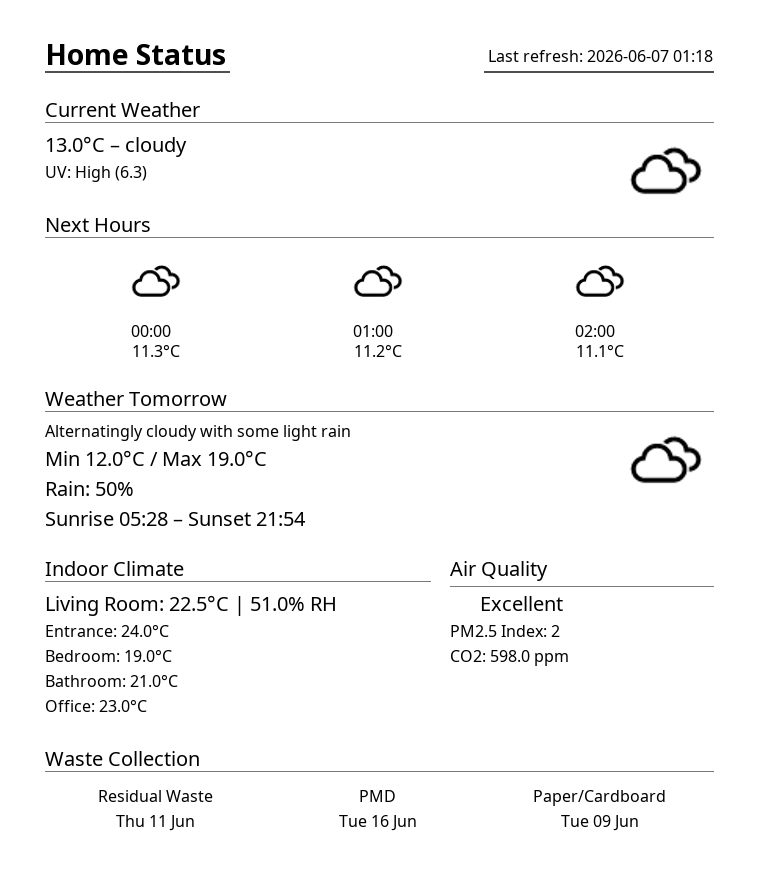
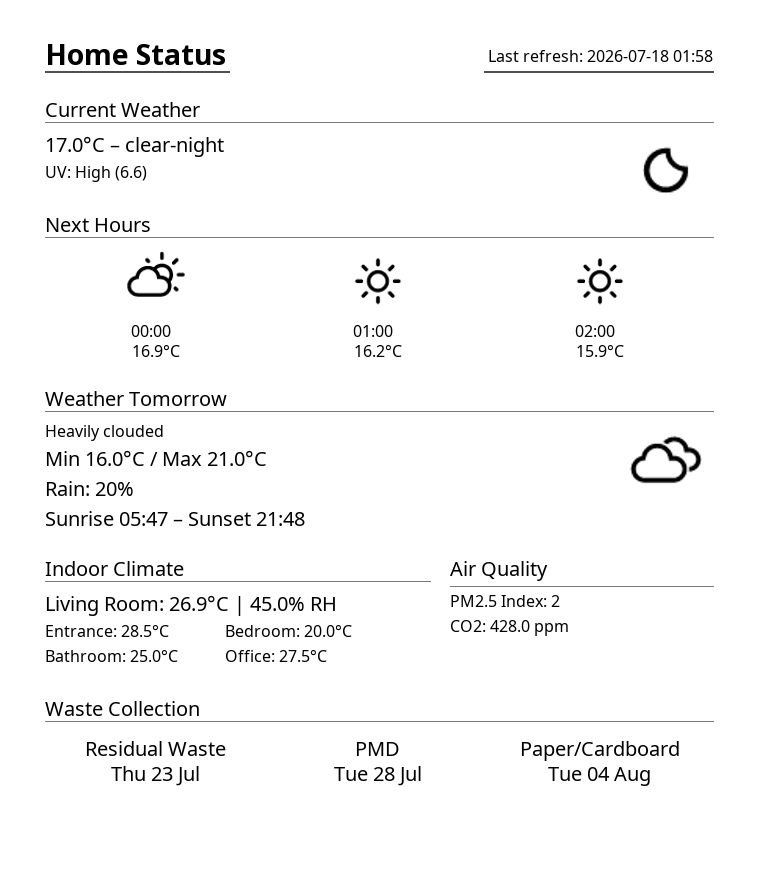
Update Kindle display
* Changed indoor climate to show other rooms in a 2 column style.
* Removed AQI summary from Air Quality as not used anymore.
* Made Waste Collection text bigger.

diff --git a/kindle_display/kindle_display.py b/kindle_display/kindle_display.py
@@ -120,7 +120,6 @@ class KindleDisplay(hass.Hass):
         temp_office = self.get_state("sensor.radiator_thermostat_w600_temperature_2")
 
         # --- AIR QUALITY ---
-        aqi_summary = self.get_state("sensor.aqi_summary")
         aqi_pm25 = self.get_state("sensor.healthy_home_coach_air_quality")
         aqi_co2 = self.get_state("sensor.healthy_home_coach_carbon_dioxide_sensor")
 
@@ -306,13 +305,18 @@ class KindleDisplay(hass.Hass):
         y_left = y + 35
         draw.text((LEFT_X, y_left), f"Living Room: {temp_living}°C | {humidity_living}% RH", font=font_text, fill=0)
         y_left += 30
+
+        # Two-column layout for small room temperatures
+        col_gap = 180  # horizontal space between the two columns
+
+        # First row
         draw.text((LEFT_X, y_left), f"Entrance: {temp_entrance}°C", font=font_text_small, fill=0)
-        y_left += 25
-        draw.text((LEFT_X, y_left), f"Bedroom: {temp_bedroom}°C", font=font_text_small, fill=0)
+        draw.text((LEFT_X + col_gap, y_left), f"Bedroom: {temp_bedroom}°C", font=font_text_small, fill=0)
+
+        # Second row
         y_left += 25
         draw.text((LEFT_X, y_left), f"Bathroom: {temp_bathroom}°C", font=font_text_small, fill=0)
-        y_left += 25
-        draw.text((LEFT_X, y_left), f"Office: {temp_office}°C", font=font_text_small, fill=0)
+        draw.text((LEFT_X + col_gap, y_left), f"Office: {temp_office}°C", font=font_text_small, fill=0)
 
         # --- COLUMN 2 - AIR QUALITY ---
         title = "Air Quality"
@@ -321,19 +325,6 @@ class KindleDisplay(hass.Hass):
         text_bottom = bbox[3]
         draw.line((RIGHT_X, text_bottom + 5, 758 - MARGIN_X, text_bottom + 5), fill=LINE_FILL, width=LINE_WIDTH)
         y_right = y + 35
-
-        summary = aqi_summary or ""
-        emoji_char = ""
-        text_part = summary
-        if summary and ord(summary[0]) > 1000:
-            emoji_char = summary[0]
-            text_part = summary[1:].strip()
-        if emoji_char:
-            draw.text((RIGHT_X, y_right), emoji_char, font=font_emoji, fill=0)
-            draw.text((RIGHT_X + 30, y_right), text_part, font=font_text, fill=0)
-        else:
-            draw.text((RIGHT_X, y_right), summary, font=font_text, fill=0)
-        y_right += 30
         draw.text((RIGHT_X, y_right), f"PM2.5 Index: {aqi_pm25}", font=font_text_small, fill=0)
         y_right += 25
         draw.text((RIGHT_X, y_right), f"CO2: {aqi_co2} ppm", font=font_text_small, fill=0)
@@ -364,9 +355,9 @@ class KindleDisplay(hass.Hass):
             x_col = MARGIN_X + i * col_width
 
             # --- LABEL ABOVE DATE ---
-            bbox = draw.textbbox((0, 0), label, font=font_text_small)
+            bbox = draw.textbbox((0, 0), label, font=font_text)
             label_w = bbox[2] - bbox[0]
-            draw.text((x_col + (col_width - label_w) // 2, y), label, font=font_text_small, fill=0)
+            draw.text((x_col + (col_width - label_w) // 2, y), label, font=font_text, fill=0)
 
             # --- DATE ---
             raw = self.get_state(entity)
@@ -376,9 +367,9 @@ class KindleDisplay(hass.Hass):
             except:
                 formatted = "-"
 
-            bbox = draw.textbbox((0, 0), formatted, font=font_text_small)
+            bbox = draw.textbbox((0, 0), formatted, font=font_text)
             date_w = bbox[2] - bbox[0]
-            draw.text((x_col + (col_width - date_w) // 2, y + 25), formatted, font=font_text_small, fill=0)
+            draw.text((x_col + (col_width - date_w) // 2, y + 25), formatted, font=font_text, fill=0)
 
         # Move Y for next section
         y += 80